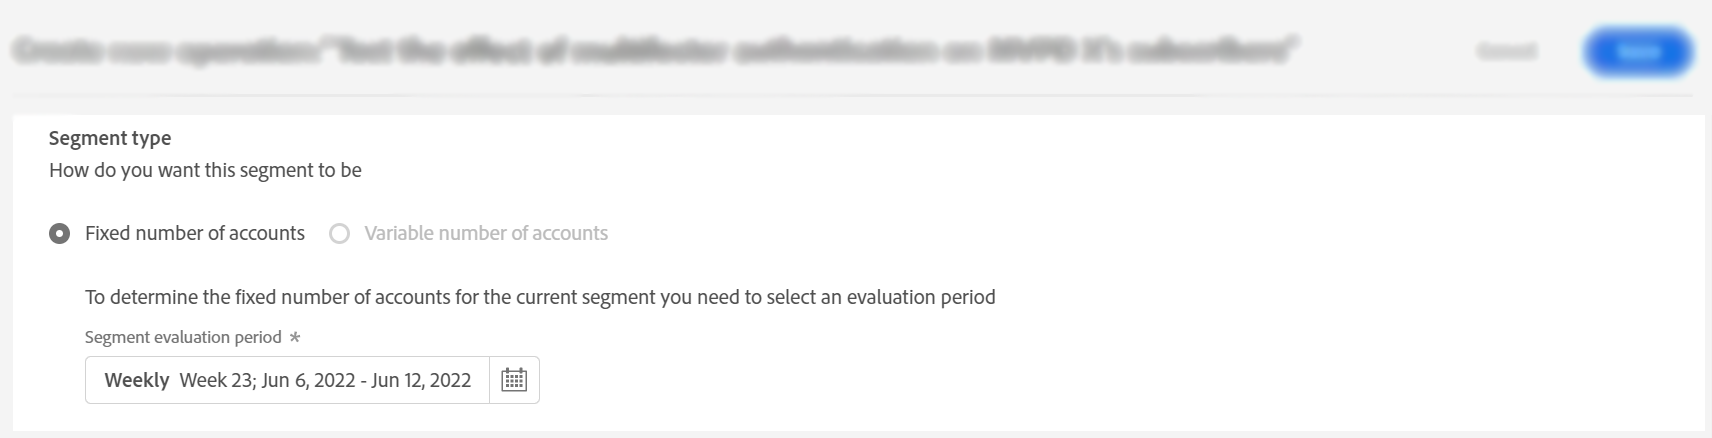
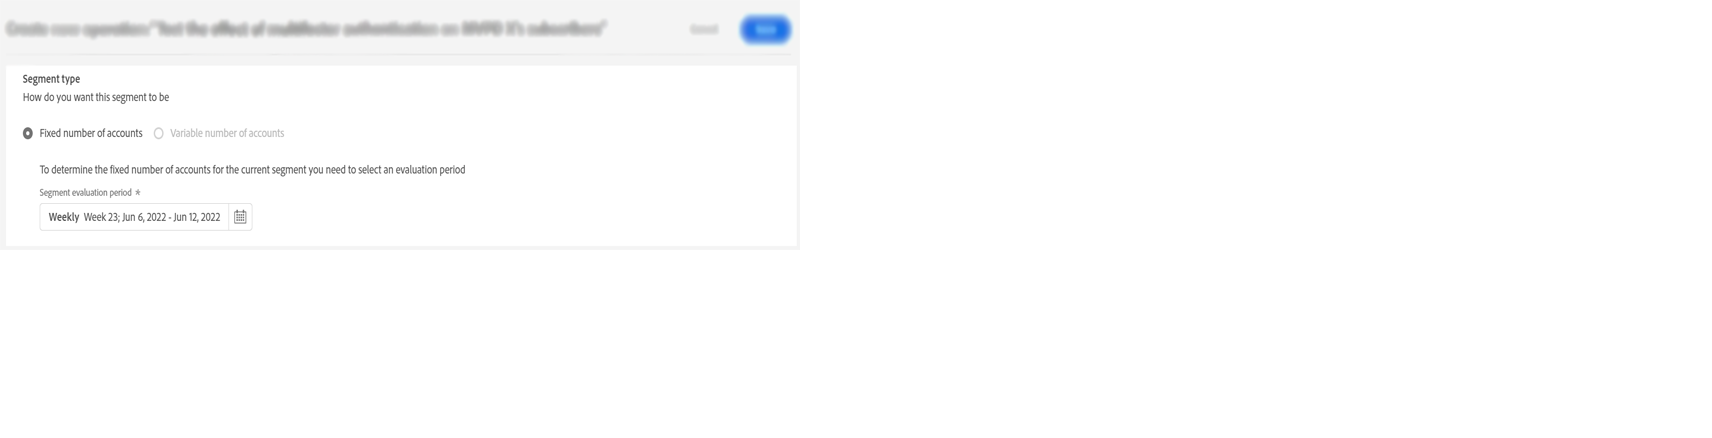
added an image with new resolution

diff --git a/help/AccountIQ/operation-affecting-user-segment.md b/help/AccountIQ/operation-affecting-user-segment.md
@@ -65,6 +65,9 @@ Segment Type is the way in which a segment is treated throughout the operation's
 
 ![](assets/segment-type.png)
 
+
+![](assets/segment-type-1.png)
+
 *Figure: Refine the number of segments to operate on using Segment type*
 
 <!--The segment type option allows you to further refine your segment based on the evaluation period (or time).
